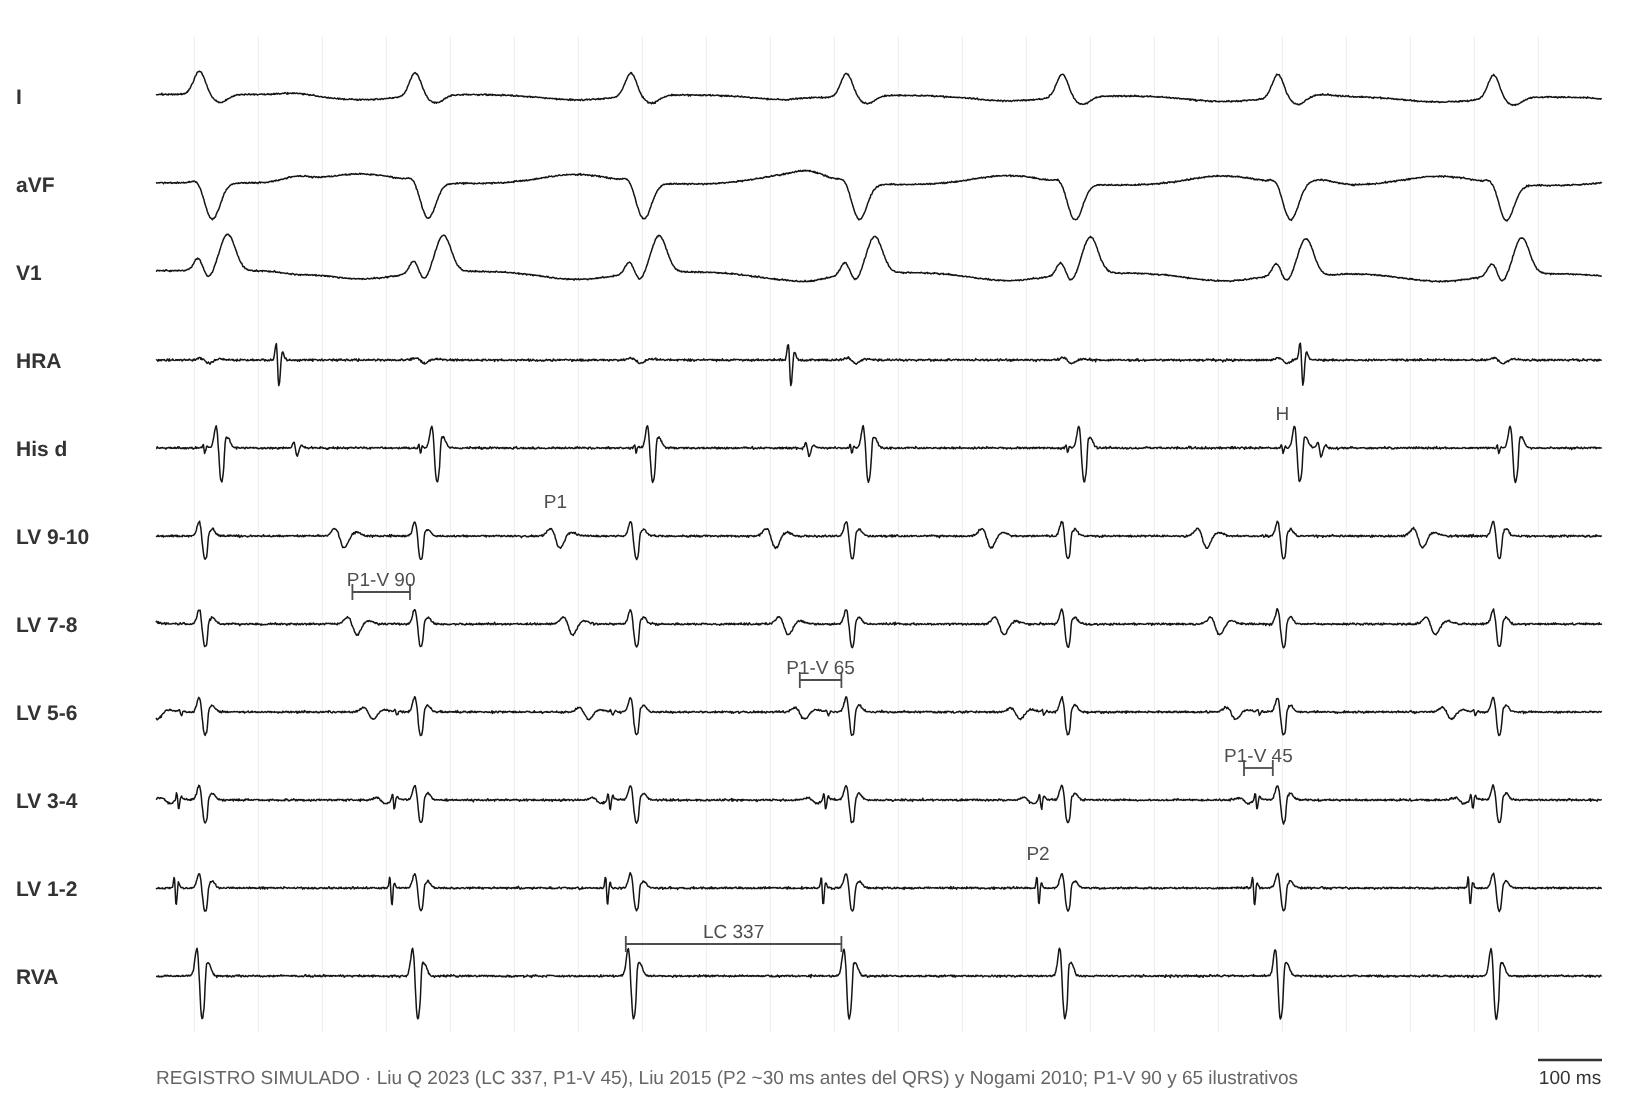
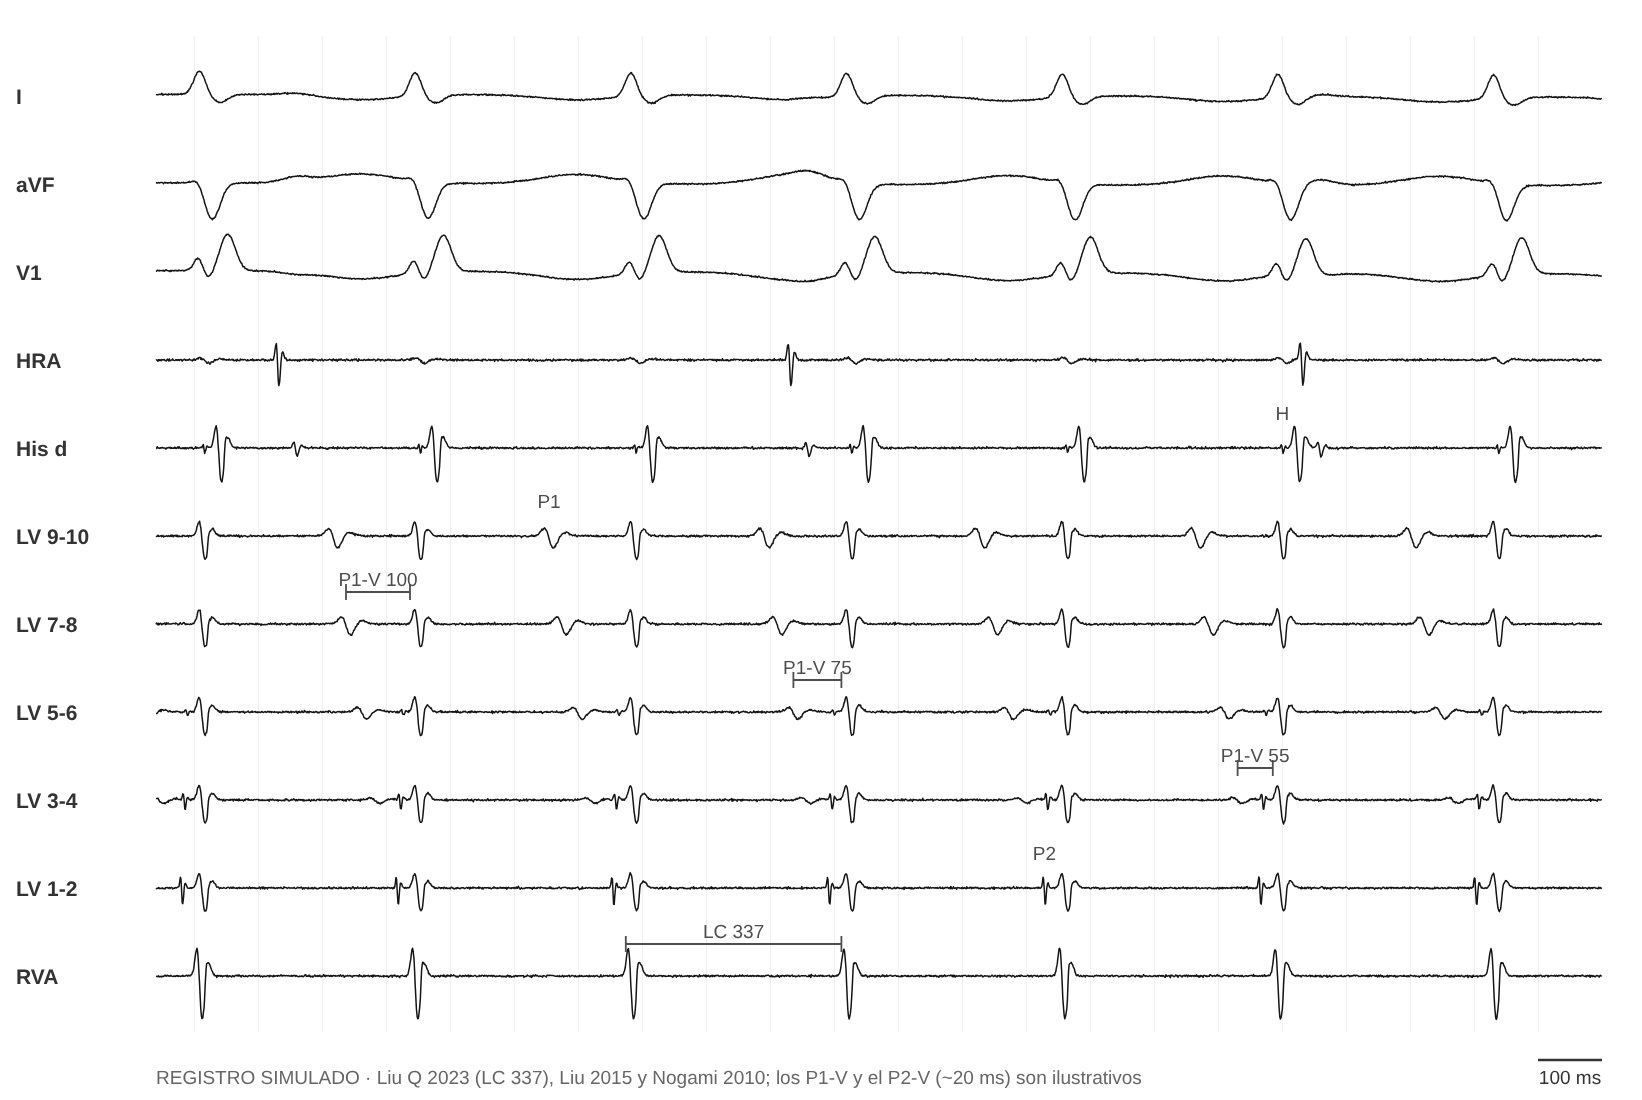
TV fascicular: P2 más cerca del QRS y P1 10 ms antes
Claude-Session: https://claude.ai/code/session_01Pw5rjt62KK5LeJZoEyFiaM

diff --git a/index.html b/index.html
@@ -1139,7 +1139,7 @@ const PCASOS = [
     dx: ['jet'], ex: 'Un EA precoz que adelanta el His inmediato sin cortar la taquicardia no es compatible con TRNAV (dejaría la vía rápida refractaria). Sin doble vía y sin conducción por la vía lenta en la sobreestimulación auricular, el diagnóstico es taquicardia de la unión.', refs: ['padanilam08', 'fan11', 'veen12'] },
   { id: 'c8', t: 'Taquicardia de QRS ancho que terminó con verapamilo', p: 'Varón de 17 años, corazón sano. En la guardia, una taquicardia de QRS ancho terminó con verapamilo.',
     h: ['Taquicardia de QRS 130 ms, BRD con eje superior, LC 337 ms', 'Disociación AV (más V que A)', 'His retrógrado 15 ms después del inicio del QRS'],
-    m: { map: { r: 'En el septum medio: P1 mesodiastólico (proximal → distal) y P2 presistólico (distal → proximal); P1-V 90 → 65 → 45 ms de proximal a distal.', u: 'clave', img: 'figs/sim/prac/tvf_post.png' },
+    m: { map: { r: 'En el septum medio: P1 mesodiastólico (proximal → distal) y P2 presistólico (distal → proximal); P1-V 100 → 75 → 55 ms de proximal a distal.', u: 'clave', img: 'figs/sim/prac/tvf_post.png' },
       verap: { r: 'Verapamilo 0,03 mg/kg alarga la LC; P1-P2 y P2-P1 se alargan y P2-QRS no cambia.', u: 'clave', img: 'figs/sim/prac/p8_verap.png' },
       vop: { r: 'Encarrilable desde el VD; el encarrilamiento captura P1 en forma ortodrómica.', u: 'util' },
       pre: { r: 'Se induce con estimulación auricular y ventricular programada.', u: 'util' },
@@ -1347,7 +1347,7 @@ const CASOS = [
     img: [{ src: 'figs/gardey2021_fig2.jpg', alt: 'Anatomía y propiedades de los nodos superior e inferior alrededor del parche de la CIV', cap: 'Figura 2: nodo superior (AH 80, HV 45, PRE 220, Wenckebach 270 ms) y nodo inferior (AH 70, HV 104, PRE 400, Wenckebach 420 ms) a cada lado del parche de la CIV; el asterisco marca el asa de Mönckeberg.', lic: 'Gardey K, Thevenard R, Joly H, Bessière F. <i>Eur Heart J Case Rep</i> 2021;5:ytab303, figura 2. Licencia <a href="https://creativecommons.org/licenses/by-nc/4.0/" target="_blank" rel="noopener noreferrer">CC BY-NC 4.0</a>.' },
       { src: 'figs/gardey2021_fig3.jpg', alt: 'Activación de los dos nodos durante la taquicardia', cap: 'Figura 3: durante la TSV baja por el nodo superior (A-H-V) y sube por el inferior (V-H-A), pasando por el asa.', lic: 'Gardey K, Thevenard R, Joly H, Bessière F. <i>Eur Heart J Case Rep</i> 2021;5:ytab303, figura 3. Licencia <a href="https://creativecommons.org/licenses/by-nc/4.0/" target="_blank" rel="noopener noreferrer">CC BY-NC 4.0</a>.' }],
     vals: [['Paciente', '15 años, TCGA, CIV cerrada con parche a los 3 años; TSV de RP largo incesante'], ['Ritmo sinusal', 'un solo QRS (mala conducción anterógrada del nodo inferior)'], ['TSV', 'baja por el nodo superior (AH 70, HV 47) y sube por el inferior (VH 133, HA 100 ms)'], ['Encarrilamiento desde los dos nodos', 'ambos en el circuito: descarta TA y TRNAV atípica'], ['Ablación del nodo inferior', 'desde el lado izquierdo de la CIV; sin recurrencia a 8 meses']] },
-  { m: 'tvf', ref: 'nogami10', fig: 'fig. 2', url: 'https://pubmed.ncbi.nlm.nih.gov/?term=Nogami+diagnosis+and+ablation+of+fascicular+tachycardia', t: 'P1 y P2 en la TV fascicular posterior', sim: 'figs/sim/tvf_post.png', simde: 'Liu Q 2023 (LC 337, P1-V 45), Liu 2015 (P2 ~30 ms antes del QRS) y Nogami 2010 (His 5–30 ms después del QRS); los P1-V de 90 y 65 ms son ilustrativos',
+  { m: 'tvf', ref: 'nogami10', fig: 'fig. 2', url: 'https://pubmed.ncbi.nlm.nih.gov/?term=Nogami+diagnosis+and+ablation+of+fascicular+tachycardia', t: 'P1 y P2 en la TV fascicular posterior', sim: 'figs/sim/tvf_post.png', simde: 'Liu Q 2023 (LC 337, P1-V 45), Liu 2015 (P2 ~30 ms antes del QRS) y Nogami 2010 (His 5–30 ms después del QRS); los P1-V del registro (100, 75 y 55 ms) son ilustrativos',
     vals: [['Serie', '20 pacientes; P1 y P2 registrados en 15'], ['Durante la TV', 'P1 de proximal a distal; P2 de distal a proximal; His 5–30 ms después del QRS'], ['En sinusal', 'P2 antes del QRS y después del His'], ['Experiencia del autor', '76 posteriores (éxito 97 %, recurrencia 4 %), 12 anteriores (92 %, 8 %), 2 septales superiores (100 %, 0 %)']] },
   { m: 'tvfabl', ref: 'liu15', fig: '', doi: '10.1161/CIRCEP.115.003080', t: 'Seguimiento de 120 ablaciones',
     vals: [['Población', '29 años promedio, 82 % varones, FEVI normal; 118 posteriores, 2 anteriores'], ['Blanco', 'Purkinje presistólico más precoz (30 ms antes del QRS)'], ['Resultado', 'éxito agudo 117/120; sin recurrencia ni drogas con un procedimiento: 80 % a 4,6 años'], ['Recurrencias', '17 por el mismo fascículo; 6 TV septales superiores nuevas']] },

diff --git a/sw.js b/sw.js
@@ -1,6 +1,6 @@
 // Permite instalar la app y abrirla sin conexión. Primero la red (siempre lo último publicado); si no hay, la copia.
 // Si cambiás un archivo, subí CACHE_VERSION.
-const CACHE_VERSION = 'mef-v48';
+const CACHE_VERSION = 'mef-v49';
 const ARCHIVOS = ['./', './index.html', './manifest.json', './iconos/icon-192.png', './iconos/icon-512.png'];
 self.addEventListener('install', e => e.waitUntil(caches.open(CACHE_VERSION).then(c => c.addAll(ARCHIVOS)).then(() => self.skipWaiting())));
 self.addEventListener('activate', e => e.waitUntil(caches.keys().then(ks => Promise.all(ks.filter(k => k !== CACHE_VERSION).map(k => caches.delete(k)))).then(() => self.clients.claim())));

diff --git a/herramientas/simulador/cases2.py b/herramientas/simulador/cases2.py
@@ -103,21 +103,21 @@ LC = 337
 vs = [i * LC for i in range(7)]
 lv = ['LV 9-10', 'LV 7-8', 'LV 5-6', 'LV 3-4', 'LV 1-2']
 ext = {}
-P1V = [110, 90, 65, 45, None]                  # P1-V por canal (proximal → distal); 45 publicado (Liu Q 2023), el resto ilustrativo
+P1V = [120, 100, 75, 55, None]                 # P1-V por canal (proximal → distal), ilustrativos (Liu Q 2023 informa 45 en el sitio de ablación)
 A1 = [0.42, 0.38, 0.25, 0.12, 0]               # P1 romo, decrece hacia distal; ausente en LV 1-2
 A2 = [0, 0, 0.12, 0.35, 0.62]                  # P2 agudo, aparece en LV 5-6 y crece hacia distal
 for i, n in enumerate(lv):  # 0 = proximal, 4 = distal
-    p2 = [v - 14 - 4 * i for v in vs]           # P2: distal → proximal; ~30 ms antes del QRS en el distal
+    p2 = [v - 4 - 4 * i for v in vs]            # P2: distal → proximal; ~20 ms antes del QRS en el distal
     ext[n] = [(t, A2[i], 0.7) for t in p2] if A2[i] else []
     if P1V[i]:
         ext[n] += [(v - P1V[i], A1[i], 3.2) for v in vs]
 sinus = [130, 930, 1730]
-S['tvf_post'] = dict(win=(-60, 2200), pxms=0.32, src='Liu Q 2023 (LC 337, P1-V 45), Liu 2015 (P2 ~30 ms antes del QRS) y Nogami 2010; P1-V 90 y 65 ilustrativos',
+S['tvf_post'] = dict(win=(-60, 2200), pxms=0.32, src='Liu Q 2023 (LC 337), Liu 2015 y Nogami 2010; los P1-V y el P2-V (~20 ms) son ilustrativos',
     channels=['HRA', 'His d'] + lv + ['RVA'],
     beats=[(v, 'rbs') for v in vs], atr=[(a, 'sinus', 1) for a in sinus], h_retro=[v + 15 for v in vs],
     extra=ext,
-    cal=[(vs[2], vs[3], 'RVA', 'LC 337'), (vs[1] - 90, vs[1], 'LV 7-8', 'P1-V 90'), (vs[3] - 65, vs[3], 'LV 5-6', 'P1-V 65'), (vs[5] - 45, vs[5], 'LV 3-4', 'P1-V 45')],
-    marks=[(vs[2] - 110, 'LV 9-10', 'P1'), (vs[4] - 30, 'LV 1-2', 'P2'), (vs[5] + 15, 'His d', 'H')])
+    cal=[(vs[2], vs[3], 'RVA', 'LC 337'), (vs[1] - 100, vs[1], 'LV 7-8', 'P1-V 100'), (vs[3] - 75, vs[3], 'LV 5-6', 'P1-V 75'), (vs[5] - 55, vs[5], 'LV 3-4', 'P1-V 55')],
+    marks=[(vs[2] - 120, 'LV 9-10', 'P1'), (vs[4] - 20, 'LV 1-2', 'P2'), (vs[5] + 15, 'His d', 'H')])
 
 # H. Burri 2012: doble disparo nodal. 134 lpm con RR levemente alternantes y relación P:QRS 1:2 (A-A ≈ 896).
 #    Publicado: frecuencia, relación 1:2 y secuencia sinusal. Ilustrativos: AH1 90, H1-H2 430 (rango de Peiker 2016: 265-520).

diff --git a/PENDIENTES.md b/PENDIENTES.md
@@ -24,7 +24,7 @@ En todos conviene mirar las amplitudes y la morfología del QRS, la visibilidad 
 - [ ] [ver](https://drsebastianmaldonado.github.io/Maniobras-EEF/figs/sim/veen12_eav.png) **Veenhuyzen 2012, fig. 6** (EA con His refractario en la TRNAV): 4 latidos de base, H-H 412 y H-H 428 (+16).
 - [ ] [ver](https://drsebastianmaldonado.github.io/Maniobras-EEF/figs/sim/veen12_jt.png) **Veenhuyzen 2012, fig. 7** (taquicardia de la unión): dos paneles. A: EA con His refractario desde el ostium del SC que no modifica el His siguiente (ilustrativo, criterio de Padanilam 2008). B: EA precoz desde la AD alta que adelanta el His inmediato 38 ms y la taquicardia sigue (publicado).
 - [ ] [ver](https://drsebastianmaldonado.github.io/Maniobras-EEF/figs/sim/gardey21.png) **Gardey 2021** (nodos gemelos): canales "Nodo sup.", "Nodo inf." y "AD lateral".
-- [ ] [ver](https://drsebastianmaldonado.github.io/Maniobras-EEF/figs/sim/tvf_post.png) **TV fascicular posterior**: de proximal a distal, P1 romo se achica y se acerca al QRS (P1-V 110, 90, 65, 45) y P2 agudo aparece en LV 5-6 y crece hasta quedar solo en LV 1-2. P1-V 45 publicado (Liu Q 2023); los demás, ilustrativos.
+- [ ] [ver](https://drsebastianmaldonado.github.io/Maniobras-EEF/figs/sim/tvf_post.png) **TV fascicular posterior**: de proximal a distal, P1 romo se achica y se acerca al QRS (P1-V 120, 100, 75, 55) y P2 agudo aparece en LV 5-6 y crece hasta quedar solo en LV 1-2. P2 ~20 ms antes del QRS. Todos ilustrativos (Liu Q 2023 informa P1-V 45 en el sitio de ablación).
 - [ ] [ver](https://drsebastianmaldonado.github.io/Maniobras-EEF/figs/sim/burri12.png) **Burri 2012** (doble disparo): el AH1 (90 ms) y el H1–H2 (430 ms) son ilustrativos.
 - [ ] [ver](https://drsebastianmaldonado.github.io/Maniobras-EEF/figs/sim/michaud01.png) **Michaud 2001** (SA−VA): publicados estimulación a 440, SA−VA 40 y PPI−LC 80; la LC 470 y el VA 120 son míos. También en el caso 2.
 - [ ] [ver](https://drsebastianmaldonado.github.io/Maniobras-EEF/figs/sim/parahis.png) **Veenhuyzen 2012, fig. 3** (para-Hisiana): publicado el Δ 61 ms; el SA 90 es mío.
